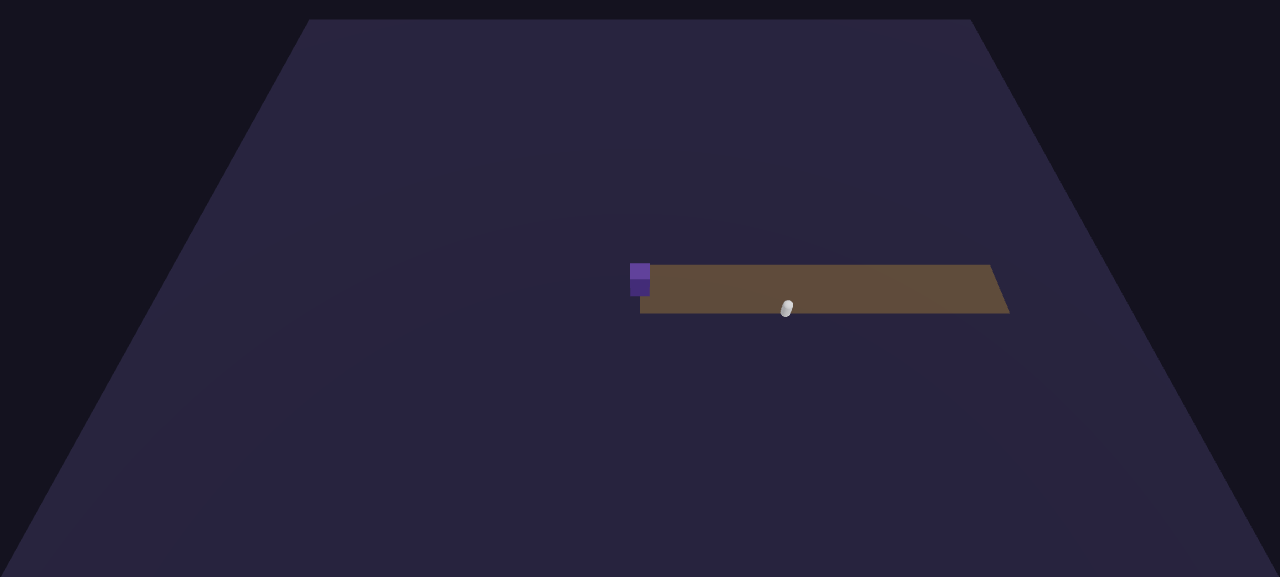
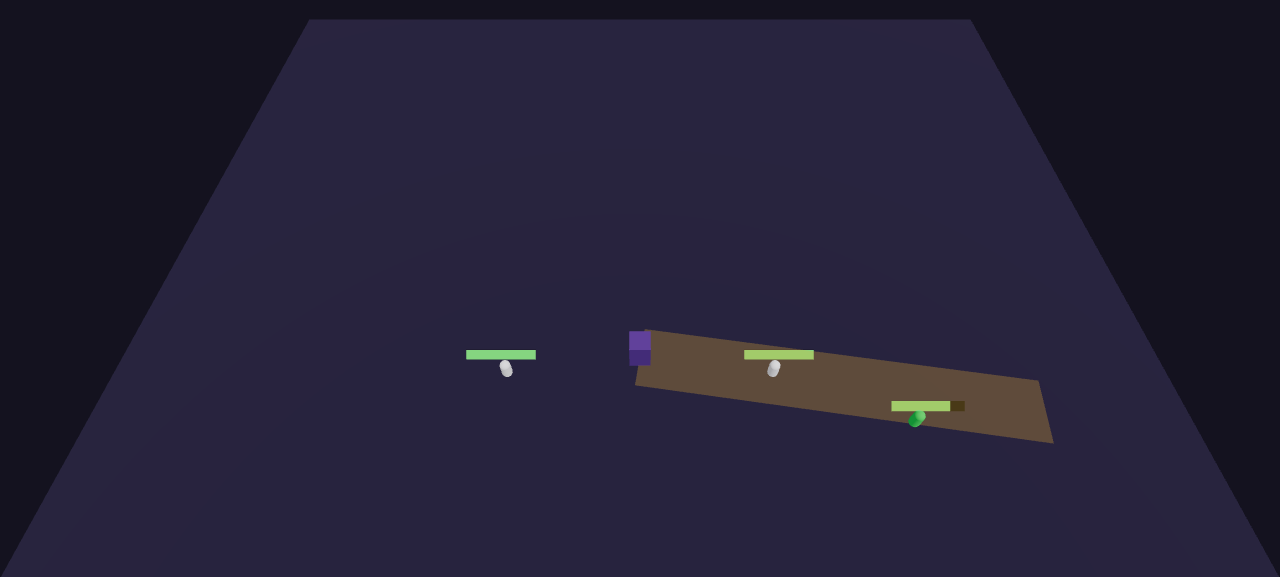
fix: レビュー指摘の4件を修正する
外部モデルによるレビュー (deepseek-v4.1-flash) の指摘を検証し、
実バグだったものを直した。いずれもテストで固定してある。

## 突進の危険範囲が斜めで描画と判定がずれていた

DangerZoneMarks の z 回転の符号が反転しており、45度 のような斜めで
描かれる帯と当たり判定が別方向を向いていた。「見えている範囲と当たる
範囲が一致する」という #58 の核心が崩れる。

0 / 90 / 180度 では偶然一致するため、既存のテスト (90度) では出なかった。
新しいテストは斜めを含む8角度で、描画される矩形の長辺と判定の前方が
同じ向きになることを確かめる。符号を戻すと6角度で落ちることも確認した。

回転角の計算は lineMarkRotation() へ出して、テストと実装が同じ式を見る
ようにしてある。ブラウザでも斜め突進が正しく伸びることを確認した
(docs/previews/issue-58-danger-zones-morning-dash.png)。

## 処理落ちでボスの攻撃判定が丸ごと消えていた

ACTIVE 局面にフレームが入ったかで判定していたため、予兆から硬直へ一気に
飛ぶと当たっていたはずの攻撃が黙って無かったことになる。プレイヤー側は
既に直してあり、ボス側だけ残っていた。

## 硬直中も危険範囲が出続けていた

判定はもう終わっているのに赤い帯が残り、安全な場所が危険に見えていた。

## 総攻撃中に境界を割ると残りの追撃が無効になっていた

BOSS DOWN 中に HP が 40% を割るとその場で結界フェーズへ入って無敵になり、
残りのダウン時間の追撃が全部通らなくなる。ご褒美であるはずの総攻撃が
途中から黙って無意味になる。ダウン中はフェーズを進めず、明けてから
まとめて反映するようにした。

## あわせて

矢印キーで移動するとページがスクロールしていた (preventDefault が離散
アクションにしか掛かっていなかった)。

snapshot の参照返しと switch の default フォールバックも指摘されたが、
前者は中身が不変値で restore が差し替える設計のため実害がなく、後者は
default を消すと consistent-return と衝突するので見送った。

Refs #55 #56 #58

Claude-Session: https://claude.ai/code/session_01R3AmdrRsadef8T1Pvkbc28

Changed region(s): [[0.4688, 0.4367, 0.8438, 0.7799], [0.3438, 0.5927, 0.4375, 0.6551]]

diff --git a/src/game/boss/hori-boss.test.ts b/src/game/boss/hori-boss.test.ts
@@ -156,6 +156,25 @@ describe('BOSS DOWN から通常戦闘へ戻る', () => {
     expect(emitted.some((event) => event.type === 'BOSS_ATTACK_STARTED')).toBe(false);
   });
 
+  it('総攻撃で境界を割っても、ダウン中は追撃し続けられる', () => {
+    const { boss, clock } = setup();
+    boss.damage(HORI_INITIAL_HP * 0.3);
+    boss.breakBarrier();
+
+    // 総攻撃の途中で40%を割る。ここで結界へ入ってしまうと、残りの
+    // ダウン時間の追撃が全部無効になり、ご褒美が黙って消える。
+    boss.damage(HORI_INITIAL_HP * 0.35);
+    const midway = boss.snapshot().hp;
+
+    boss.damage(50);
+    expect(boss.snapshot().hp).toBe(midway - 50);
+
+    // 持ち越した分はダウンが明けた時点で反映される。
+    clock.advance(BOSS_DOWN_DURATION_MS);
+    boss.update([]);
+    expect(boss.snapshot().phase).toBe('BARRIER_2');
+  });
+
   it('BOSS DOWN が明けると通常戦闘へ戻り、また技を出す', () => {
     const { boss, clock, emitted } = setup();
     boss.damage(HORI_INITIAL_HP * 0.3);
@@ -216,6 +235,19 @@ describe('通常攻撃の予兆と被弾', () => {
     expect(hits).toHaveLength(0);
   });
 
+  it('処理落ちで判定の尺をまたいでも被弾が消えない', () => {
+    const { boss, clock, hits } = setup({ pickAttack: () => 'WAKE_UP_ALARM' });
+    const spec = DEFAULT_HORI_ATTACKS.WAKE_UP_ALARM;
+
+    boss.update(targets);
+    // 1フレームで予兆・判定・硬直をまたぐ (バックグラウンドのタブなど)。
+    // ここで判定を捨てると、当たっていたはずの攻撃が黙って無かったことになる。
+    clock.advance(spec.telegraphMs + spec.activeMs + spec.recoverMs);
+    boss.update(targets);
+
+    expect(hits).toEqual([{ targetId: 'oddoruno', amount: spec.damage }]);
+  });
+
   it('1つの技で同じ相手に二重に当たらない', () => {
     const { boss, clock, hits } = setup({ pickAttack: () => 'WAKE_UP_ALARM' });
     const spec = DEFAULT_HORI_ATTACKS.WAKE_UP_ALARM;
@@ -227,6 +259,23 @@ describe('通常攻撃の予兆と被弾', () => {
     boss.update(targets);
 
     expect(hits).toHaveLength(1);
+  });
+
+  it('判定が終わったら危険範囲が消える', () => {
+    const { boss, clock } = setup({ pickAttack: () => 'WAKE_UP_ALARM' });
+    const spec = DEFAULT_HORI_ATTACKS.WAKE_UP_ALARM;
+
+    boss.update(targets);
+    // 予兆中と判定中は見えている。
+    expect(boss.dangerZones(targets)).toHaveLength(1);
+    clock.advance(spec.telegraphMs + 1);
+    boss.update(targets);
+    expect(boss.dangerZones(targets)).toHaveLength(1);
+
+    // 硬直へ入ったら消える。残ると安全な場所が危険に見える。
+    clock.advance(spec.activeMs);
+    boss.update(targets);
+    expect(boss.dangerZones(targets)).toEqual([]);
   });
 
   it('技が終わると通知され、次の技へ進む', () => {

diff --git a/src/game/boss/hori-boss.ts b/src/game/boss/hori-boss.ts
@@ -165,6 +165,12 @@ export function createHoriBoss(options: HoriBossOptions): HoriBoss {
 
   function currentZones(targets: readonly BossTarget[]): DangerZone[] {
     if (activeAttack === null) return [];
+
+    // 硬直 (RECOVER) 以降は危険範囲を出さない。判定はもう終わっているのに
+    // 赤い帯が残ると、安全な場所が危険に見えて「危険範囲が読める」が崩れる。
+    const elapsed = clock.now() - activeAttack.startedAt;
+    if (phaseAt(elapsed, activeAttack.timing) === 'RECOVER') return [];
+
     return dangerZonesOf(activeAttack.attackId, {
       aim: activeAttack.aim,
       elapsedMs: clock.now() - activeAttack.startedAt,
@@ -259,6 +265,8 @@ export function createHoriBoss(options: HoriBossOptions): HoriBoss {
         if (now < bossDownUntil) return;
         bossDownUntil = null;
         events.emit({ type: 'BOSS_DOWN_ENDED' });
+        // ダウン中に持ち越したHP変化をここで反映する。
+        syncPhase();
         nextAttackAt = now + attackIntervalMs(modifiers());
         return;
       }
@@ -268,10 +276,18 @@ export function createHoriBoss(options: HoriBossOptions): HoriBoss {
 
       if (activeAttack !== null) {
         const current = attackPhase();
-        if (current === 'ACTIVE') {
+
+        // 判定が出ている尺をフレームがまたいでも取りこぼさない。処理落ちや
+        // バックグラウンドのタブでは TELEGRAPH から RECOVER へ一気に飛ぶ。
+        // そこで捨てると、当たっていたはずの攻撃が黙って無かったことになる。
+        // プレイヤー側 (player-state.ts) と同じ扱いにしてある。
+        const reachedActive = now - activeAttack.startedAt >= activeAttack.timing.telegraphMs;
+
+        if (reachedActive) {
           advanceDash();
           resolveHits(targets);
         }
+
         if (current === 'DONE') {
           events.emit({ type: 'BOSS_ATTACK_ENDED', attackId: activeAttack.attackId });
           activeAttack = null;
@@ -291,7 +307,15 @@ export function createHoriBoss(options: HoriBossOptions): HoriBoss {
       }
       hp = Math.min(hpMax, Math.max(0, hp - amount));
       events.emit({ type: 'HORI_HP_CHANGED', hp, hpMax });
-      syncPhase();
+
+      // BOSS DOWN 中はフェーズを進めない。
+      //
+      // 総攻撃 (§11.2) の最中に境界を割ると、その場で結界フェーズへ入って
+      // 無敵になり、残りのダウン時間の追撃が丸ごと無効になる。ご褒美である
+      // はずの総攻撃が途中から黙って無意味になるので、ダウンが明けてから
+      // まとめて反映する。
+      if (bossDownUntil === null) syncPhase();
+
       return hp;
     },
 

diff --git a/src/rendering/boss/danger-zone-marks.test.ts b/src/rendering/boss/danger-zone-marks.test.ts
@@ -1,0 +1,53 @@
+import { describe, expect, it } from 'vitest';
+import { Euler, Vector3 } from 'three';
+
+import { isInsideDangerZone, type DangerZone } from '@/game/boss/attacks/danger-zone';
+
+import { lineMarkRotation } from './DangerZoneMarks';
+
+/**
+ * 危険範囲の**描画**と**当たり判定**が同じ方向を向いていることを確かめる。
+ *
+ * 「危険範囲が視覚的に読める」(Issue #58) は、見えている範囲と当たる範囲が
+ * 一致して初めて成立する。ここがずれると、避けたつもりの場所で被弾する。
+ *
+ * 0° / 90° / 180° は符号を間違えても偶然一致してしまうので、**45°のような
+ * 斜めを必ず含める**。実際、z の符号が反転していたバグは斜めでしか出なかった。
+ */
+
+/** 描画される矩形の長辺が、ワールド座標でどちらを向くか。 */
+function drawnDirection(rotationY: number): Vector3 {
+  // planeGeometry は XY 平面にあり、length に当たる長辺はローカル +Y。
+  return new Vector3(0, 1, 0).applyEuler(new Euler(...lineMarkRotation(rotationY), 'XYZ'));
+}
+
+/** 当たり判定が前方とみなす向き (danger-zone.ts と同じ式)。 */
+function judgedDirection(rotationY: number): Vector3 {
+  return new Vector3(-Math.sin(rotationY), 0, -Math.cos(rotationY));
+}
+
+const ANGLES_DEG = [0, 30, 45, 90, 135, 180, 225, -45];
+
+describe('突進の危険範囲は描画と判定が一致する', () => {
+  it.each(ANGLES_DEG)('%s度で同じ方向を向く', (deg) => {
+    const rotationY = (deg * Math.PI) / 180;
+
+    // 内積が1なら完全に同じ向き。
+    expect(drawnDirection(rotationY).dot(judgedDirection(rotationY))).toBeCloseTo(1);
+  });
+
+  it.each(ANGLES_DEG)('%s度で、描かれた矩形の中心が判定の内側にある', (deg) => {
+    const rotationY = (deg * Math.PI) / 180;
+    const length = 30;
+    const zone: DangerZone = {
+      origin: { x: 0, z: 0 },
+      shape: { kind: 'LINE', length, halfWidth: 2.5 },
+      rotationY,
+    };
+
+    // 描画される矩形の中心 (始点から長さの半分だけ進んだ点)。
+    const center = drawnDirection(rotationY).multiplyScalar(length / 2);
+
+    expect(isInsideDangerZone(zone, { x: center.x, z: center.z })).toBe(true);
+  });
+});

diff --git a/src/rendering/boss/DangerZoneMarks.tsx b/src/rendering/boss/DangerZoneMarks.tsx
@@ -16,6 +16,21 @@ import type { DangerZone } from '@/game/boss/attacks/danger-zone';
 /** 地面へ貼るための高さ。Z-fighting を避けるだけのわずかな浮き。 */
 const GROUND_OFFSET_Y = 0.02;
 
+/**
+ * 突進の矩形を地面へ寝かせ、進行方向へ向ける Euler 角。
+ *
+ * planeGeometry は XY 平面にあるので、まず X を -90度 回して地面へ寝かせ、
+ * そのあと Z で進行方向へ向ける。**Z の符号を反転させてはいけない。**
+ * 反転しても 0 / 90 / 180度 では偶然一致するが、45度 のような斜めで
+ * 描画と当たり判定がずれ、避けたつもりの場所で被弾する。
+ *
+ * 判定側 (`danger-zone.ts`) が前方を `(-sinθ, -cosθ)` としているので、
+ * ここもそれと同じ向きになる角度を返す。一致はテストで固定してある。
+ */
+export function lineMarkRotation(rotationY: number): [number, number, number] {
+  return [-Math.PI / 2, 0, rotationY];
+}
+
 export interface DangerZoneMarksProps {
   zones: readonly DangerZone[];
   /**
@@ -96,10 +111,7 @@ function DangerZoneMark({ zone, color, opacity }: DangerZoneMarkProps): React.JS
       const centerZ = origin.z + (forwardZ * shape.length) / 2;
 
       return (
-        <mesh
-          position={[centerX, GROUND_OFFSET_Y, centerZ]}
-          rotation={[-Math.PI / 2, 0, -rotationY]}
-        >
+        <mesh position={[centerX, GROUND_OFFSET_Y, centerZ]} rotation={lineMarkRotation(rotationY)}>
           <planeGeometry args={[shape.halfWidth * 2, shape.length]} />
           <meshBasicMaterial
             color={color}

diff --git a/src/input/keyboard/game-action-adapter.ts b/src/input/keyboard/game-action-adapter.ts
@@ -47,6 +47,14 @@ export interface KeyboardGameActionAdapter extends InputAdapter {
   pollMove(): Extract<GameAction, { type: 'MOVE' }>;
 }
 
+/** 移動へ割り当たっているキー。既定動作を止める対象。 */
+const MOVEMENT_KEYS: ReadonlySet<string> = new Set([
+  ...FORWARD_KEYS,
+  ...BACKWARD_KEYS,
+  ...LEFT_KEYS,
+  ...RIGHT_KEYS,
+]);
+
 /** pressed のうち、keys のいずれかが含まれているか。 */
 function isAnyPressed(pressed: ReadonlySet<string>, keys: ReadonlySet<string>): boolean {
   for (const code of pressed) {
@@ -68,6 +76,10 @@ export function attachKeyboardGameActions(
 
     // 移動キーは押しっぱなしを追跡する。repeat も含めて記録してよい。
     pressed.add(event.code);
+
+    // 矢印キーはブラウザの既定動作 (ページスクロール) を止める。
+    // 止めないと、移動のたびに画面全体が動いて操作できない。
+    if (MOVEMENT_KEYS.has(event.code)) event.preventDefault();
 
     // 離散アクションはキーリピートで連射させない。
     if (event.repeat) return;

diff --git a/src/input/keyboard/game-action-adapter.test.ts b/src/input/keyboard/game-action-adapter.test.ts
@@ -105,6 +105,15 @@ describe('移動入力', () => {
     expect(input.pollMove().input.forward).toBe(0);
   });
 
+  it('矢印キーでページがスクロールしない', () => {
+    setup();
+    const event = new KeyboardEvent('keydown', { code: 'ArrowUp', cancelable: true });
+    window.dispatchEvent(event);
+
+    // 止めないと移動のたびに画面全体が動いて操作できない。
+    expect(event.defaultPrevented).toBe(true);
+  });
+
   it('フォーカスが外れると移動し続けない', () => {
     const { adapter: input } = setup();
 
